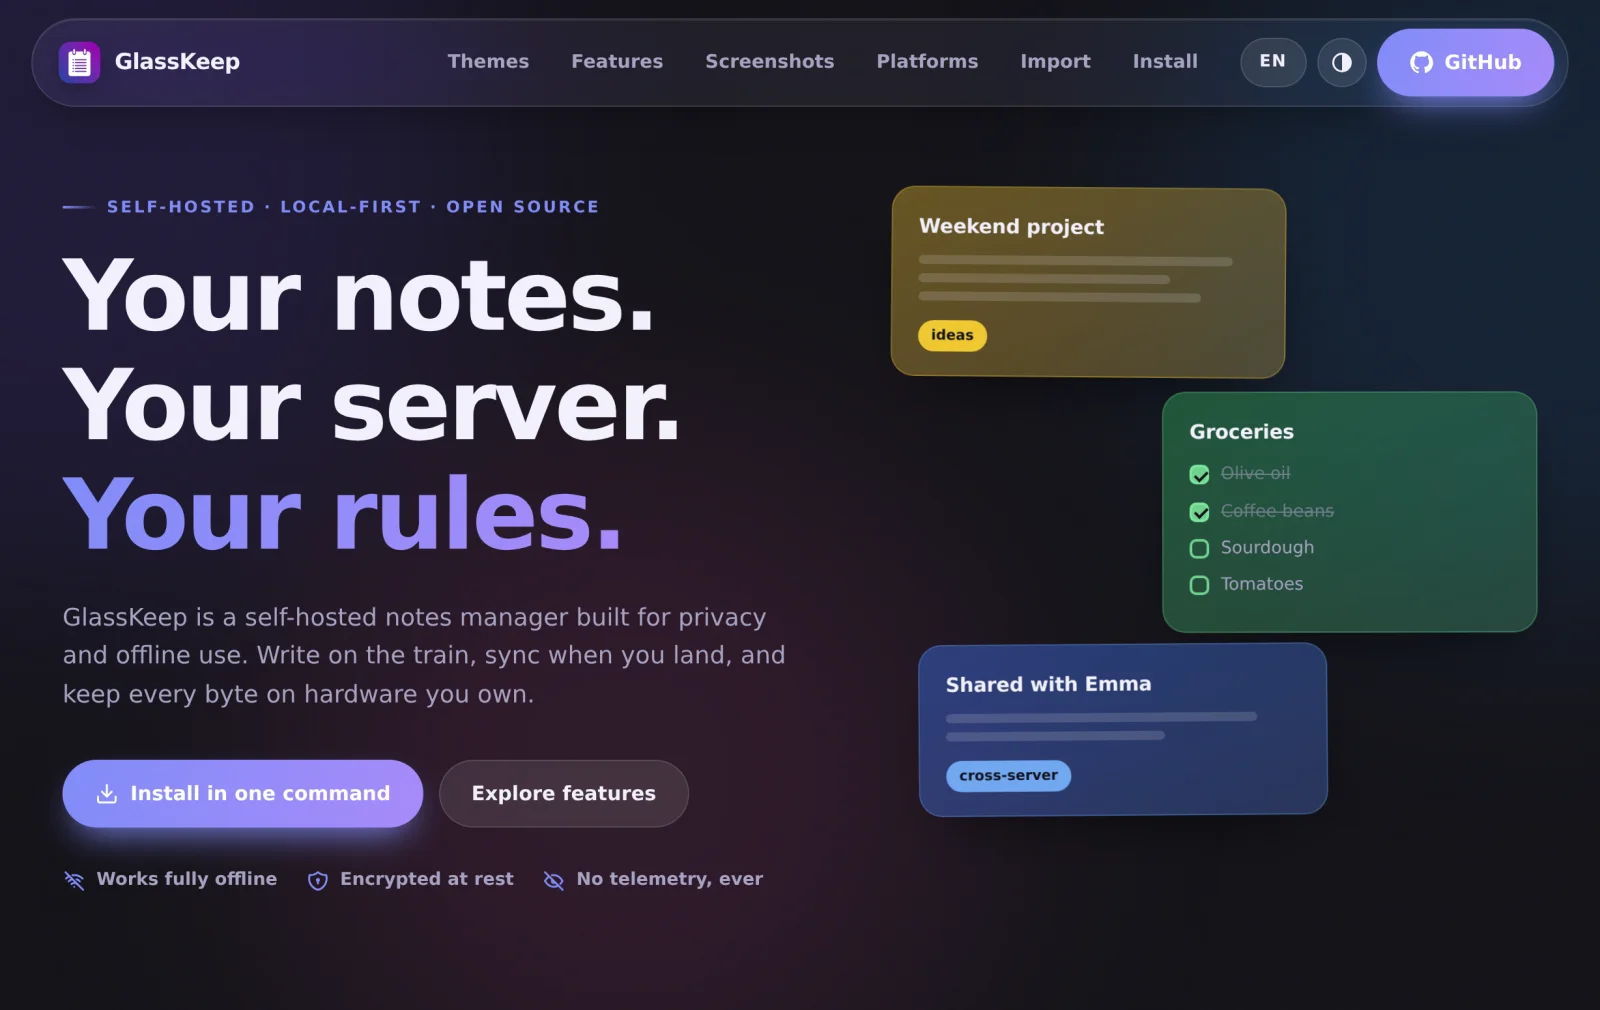
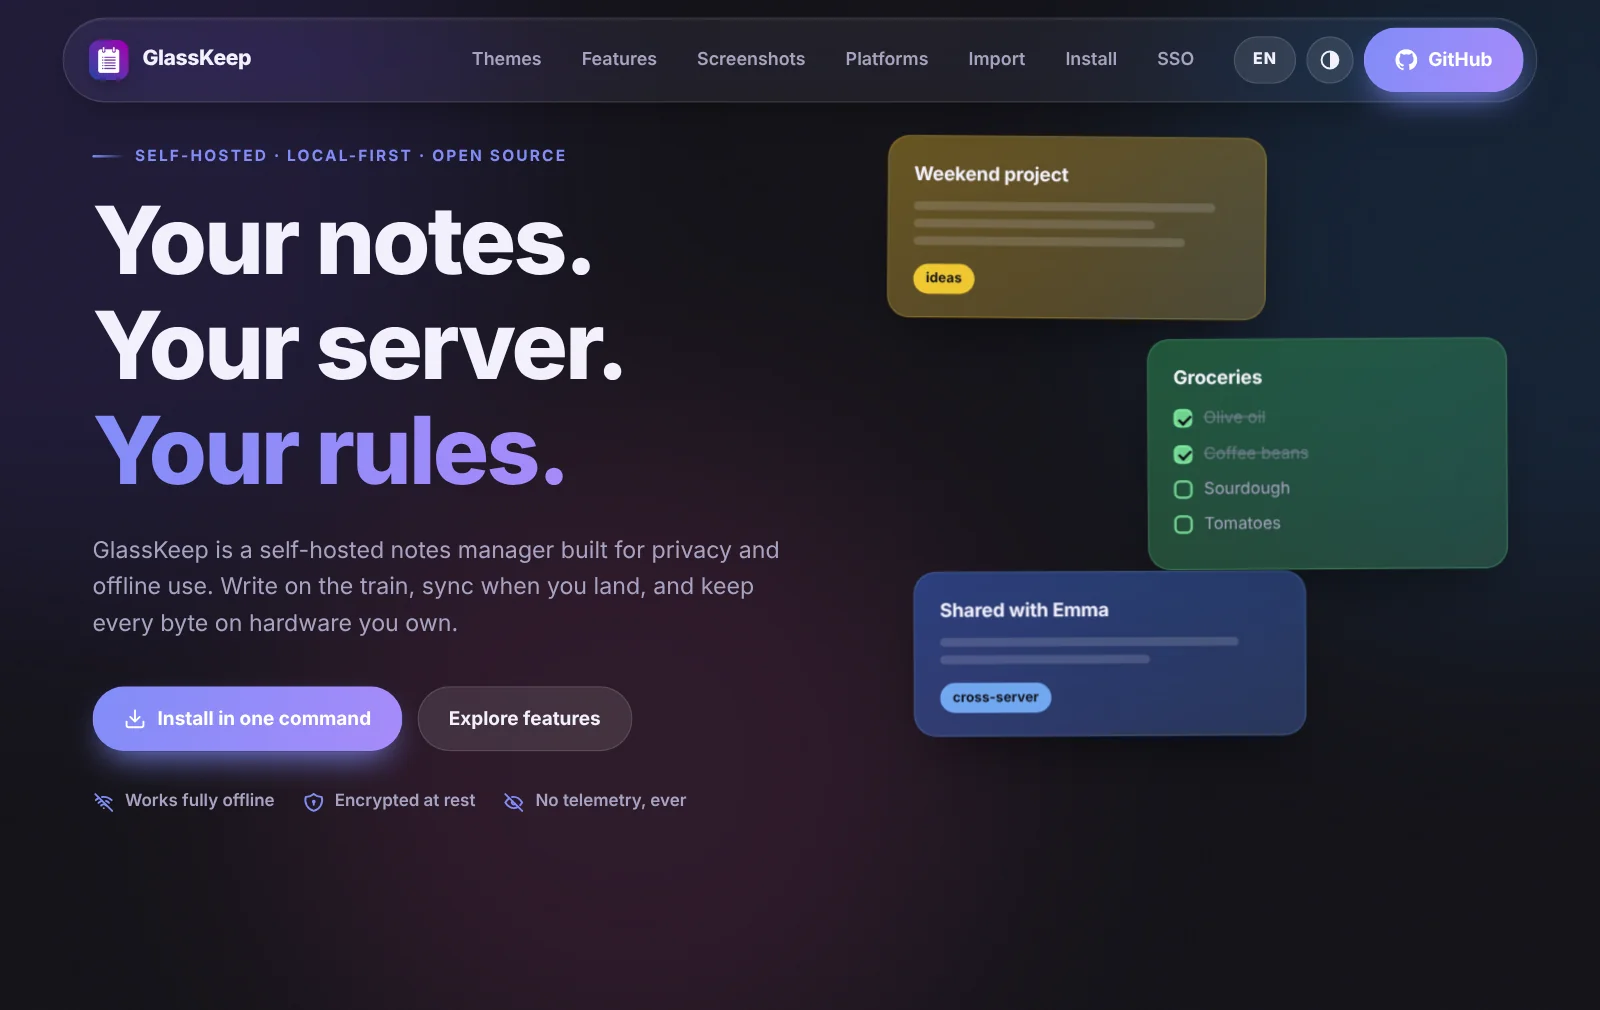
Retake the README's website preview in Inter
The preview was rendered with a fallback font; it now shows the site as
visitors see it, SSO link included. The README also names Pocket ID in
the SSO guide link.

diff --git a/README.md b/README.md
@@ -354,7 +354,7 @@ Users can sign in through an **OpenID Connect provider**: Authentik, Keycloak, A
 * The flow runs entirely on the server (Authorization Code + PKCE), the client secret never reaches a browser.
 * An account is opened only by the identity it linked (issuer + subject), never by a matching email, and a provider never creates accounts or grants rights.
 
-> 📘 **Setup guide with screenshots** for Authentik, Keycloak and Authelia: [victor-root.github.io/glasskeep-enhanced/sso.html](https://victor-root.github.io/glasskeep-enhanced/sso.html). The same steps in text, with troubleshooting: [`SSO.md`](./SSO.md)
+> 📘 **Setup guide with screenshots** for Pocket ID, Authentik, Keycloak and Authelia: [victor-root.github.io/glasskeep-enhanced/sso.html](https://victor-root.github.io/glasskeep-enhanced/sso.html). The same steps in text, with troubleshooting: [`SSO.md`](./SSO.md)
 
 ---
 
